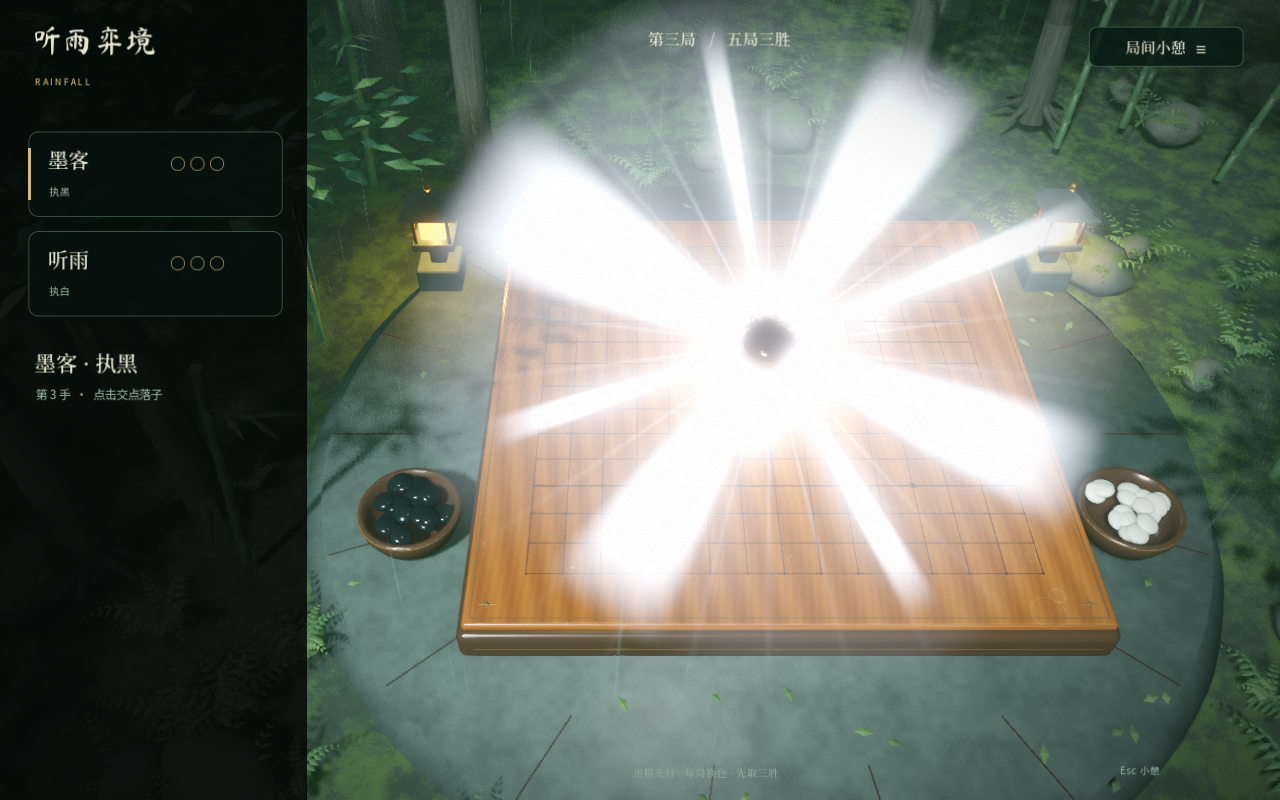
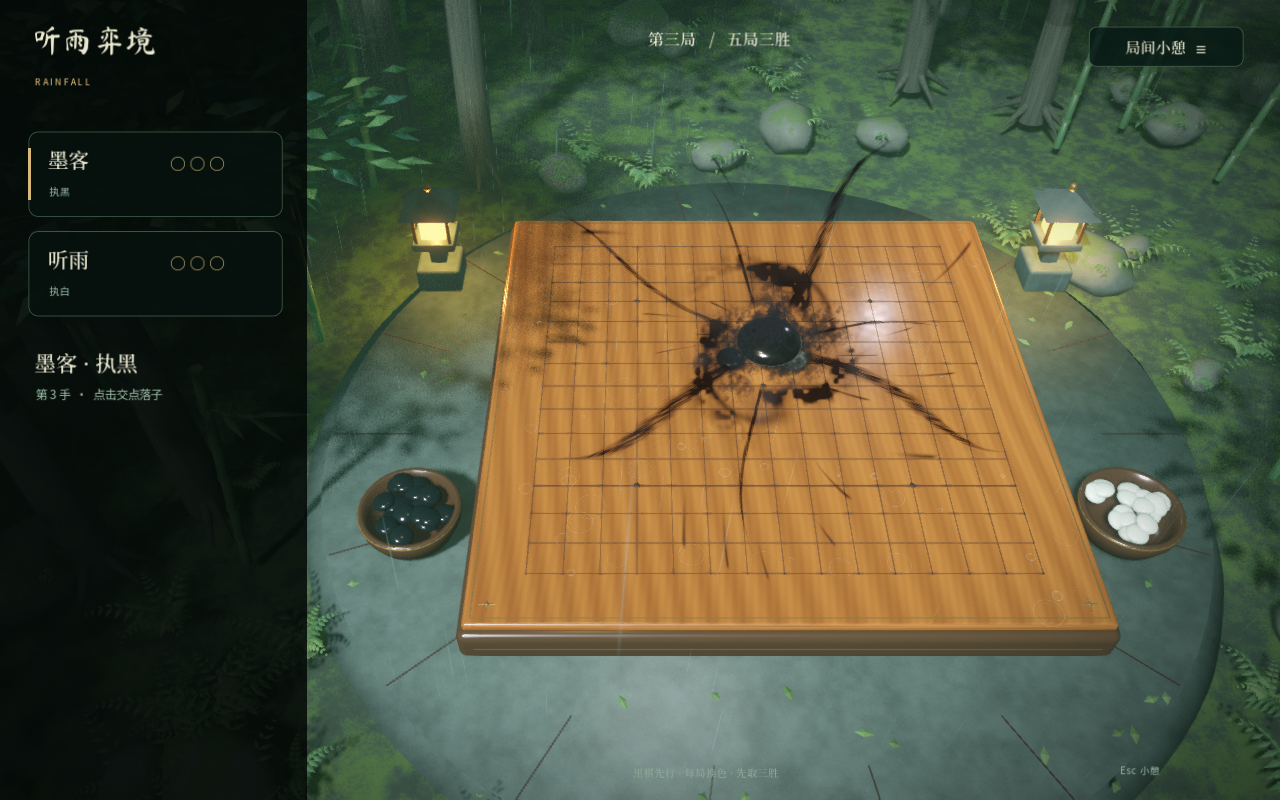
fix: match effects to stone color and rebuild ink charging

diff --git a/VERIFICATION.md b/VERIFICATION.md
@@ -1,4 +1,4 @@
-# 听雨弈境 2.4.0 验证记录
+# 听雨弈境 2.5.0 验证记录
 
 验证日期：2026-09-12。环境：macOS、Apple M1 / 16 GB、Godot 4.7.2、Forward+ / Metal。其他操作系统及显卡尚未验证。
 
@@ -8,7 +8,8 @@
 | --- | --- | --- |
 | 棋局规则 | 133 项通过，0 失败 | `tests/test_rules.gd` |
 | 设置与实际鼠标回放 | 27 项通过，0 失败 | `--verify --settings-check` |
-| 悬浮、震子与蓄力反馈 | 72 项通过，0 失败；技能重叠帧数 0 | `--verify --feedback-check` |
+| 悬浮、震子与蓄力反馈 | 75 项通过，0 失败；技能重叠帧数 0 | `--verify --feedback-check` |
+| 三种技能完整实机演出 | 36 项通过，0 失败 | `--verify` |
 | 雷电与技能互斥 | 20 项通过，0 失败；重叠帧数 0 | `--verify --effect-priority` |
 
 覆盖永久优势归属与换色、普通玩家无特效、T 形四向识别、白棋等待回合、射线包含空位、月轮完整 5×5、棋盘长按与 225 点填黑、三胜结束、存档恢复及重复结算防护。
@@ -17,13 +18,17 @@
 
 反馈回放覆盖双方悬浮棋色、空位吸附、占位和菜单隐藏、窗口离开、特效关闭后仍有落点预览；第三至第五局分别检查优势归属、对方棋子离盘、己方不动、完整恢复原位和棋局不受影响。中途关闭特效会立即恢复棋子。
 
-蓄力的早期、中段、满蓄力均有实机截图。固定画面区域的平均亮度依次为 0.558、0.695、0.936；远离棋盘反光点的高亮采样点从 0 增至 1307，确认光束本身逐渐展开。回放还检查满蓄力等待、音效结束后的长按取消、拖走、设置、失焦与正常释放。
+蓄力的早期、中段、满蓄力均有实机截图。回放对比有无墨流的同一场景，避开中央棋子，在外侧区域统计变暗的采样点：6 → 1753 → 3327；距离中心更远的墨纹采样点为 3 → 151 → 863。满蓄力时变亮的采样点只有 6，确认增强的是墨色纹理，且向外延伸；中性反光只照亮黑子附近。回放还检查满蓄力等待、音效结束后的取消、拖走、设置、失焦、重新蓄力与正常释放。
 
-雷电回放覆盖第三局普通落雷，以及蓄力、拉弓、月轮、天地大同、取消手势和换局之间的互斥。当前输出目录为 `verification/v2.4/`，包含 `feedback-result.json`、`settings-playback.json`、`effect-priority-result.json` 和实机截图。
+已逐张复查黑白落雷、震子、黑色蓄力、黑棋挽弓与天地大同、白棋月轮及书法颜色。黑棋弓迹、雷电与书法主色为墨黑；白棋月轮和书法为银白。棋形不提前显示技能提示。
+
+雷电回放覆盖第三局普通落雷，以及蓄力、拉弓、月轮、天地大同、取消手势和换局之间的互斥。当前输出目录为 `verification/v2.5/`，包含 `playback-result.json`、`feedback-result.json`、`settings-playback.json`、`effect-priority-result.json` 和实机截图。
+
+合计 291 项检查通过。图形回放使用 `--isolated-replay`：保持测试窗口可绘制，隔离桌面真实输入；脚本仍通过 `Viewport.push_input()` 测试游戏与控件。窗口退出、失焦的取消处理由脚本显式调用同一函数，避免桌面操作干扰自动回放。
 
 ## 声音测量
 
-2.4 声音专项完成 40 项回放检查，新增对方棋子震起后的整组落回声录制，音频资源和混音总线保留原有输出保护。
+最近一次声音专项在 2.4 完成 40 项回放检查，包含对方棋子震起后的整组落回声录制。2.5 修改视觉演出与回放隔离，没有改动声音资源、播放增益和混音总线；下列为 2.4 的实测数据，本次未重复录音。
 
 | 测量 | 结果 |
 | --- | --- |
@@ -40,10 +45,10 @@
 
 ## 本机应用与数据
 
-2.4.0 已完成 macOS 导出和本机临时签名校验，安装包与导出包的 PCK 内容一致。启动安装版后继续已有棋局，通过实际鼠标输入确认普通玩家的白棋悬浮预览正常显示，未替玩家落子。升级保留棋局、声音和画质偏好。
+2.5.0 已完成 macOS 导出和本机临时签名校验，安装版与导出包的 PCK 摘要相同。安装版已正常启动并恢复原存档；棋局和设置文件在升级、启动后均与更新前摘要一致。记录位于 `verification/v2.5/installation.json`，旧应用另留本地备份。
 
-所有回放使用 `--verify`，不覆盖正常玩家的棋局；设置持久化检查写入测试目录。`verification/` 中的录音、测试配置、截图和本地发布记录不提交 Git，也不进入导出应用。仓库保留可复现脚本及选取的 [悬浮棋子](docs/images/gameplay.png)、[设置](docs/images/settings.png)、[震子](docs/images/recoil.png)、[满蓄力](docs/images/charge.png) 截图。
+所有回放使用 `--verify`，不覆盖正常玩家的棋局；设置持久化检查写入测试目录。`verification/` 中的录音、测试配置、截图和本地发布记录不提交 Git，也不进入导出应用。仓库保留可复现脚本及选取的 [悬浮棋子](docs/images/gameplay.png)、[设置](docs/images/settings.png)、[震子](docs/images/recoil.png)、[满蓄力](docs/images/charge.png)、[墨黑挽弓](docs/images/bow.png)、[银白月轮](docs/images/moon.png) 截图。
 
-2.4 的导入、渲染回放和导出日志均无脚本错误或警告。测试与音频分析自动建立输出目录，无需预先复制本机测试文件。
+最终通过的规则、设置、技能、反馈与互斥回放日志均无脚本错误或警告。测试与音频分析自动建立输出目录，无需预先复制本机测试文件。
 
 启动、测试与导出命令见 [README](README.md)。

diff --git a/README.md b/README.md
@@ -2,7 +2,7 @@
 
 雨落松间，棋起万象。使用 **Godot + Blender** 制作的本地双人 3D 五子棋，包含雨林棋境、黑白棋子专属演出和三种隐藏技法。
 
-当前版本 **2.4.0**。运行与导出已在 **macOS / Apple Silicon、Godot 4.7.2、Forward+ / Metal** 上验证；其他平台尚未验证。两位玩家共用一台电脑和鼠标。
+当前版本 **2.5.0**。运行与导出已在 **macOS / Apple Silicon、Godot 4.7.2、Forward+ / Metal** 上验证；其他平台尚未验证。两位玩家共用一台电脑和鼠标。
 
 ![雨中棋盘实机画面](docs/images/gameplay.png)
 
@@ -56,6 +56,10 @@ GODOT_BIN=/Applications/Godot.app/Contents/MacOS/Godot
 
 第一局先落子的玩家永久拥有优势，后续交换黑白也不改变归属。其执黑时呈现墨色烟气，执白时呈现银白光雾；另一位玩家始终为普通落子。界面不标记可发动技能的棋子，也不提示触发方法。
 
+演出主色随当前棋色统一：黑棋使用黑色墨流、弓迹、雷电裂隙与书法；白棋使用银白月轮、闪电与书法。黑子表面仅保留少量中性反光，书法采用细描边保持可读性。
+
+实机演出：[墨黑挽弓](docs/images/bow.png) · [银白月轮](docs/images/moon.png)。
+
 第三局开始，优势方普通落子会增加对应棋色的分叉闪电和雷鸣，**对方棋子会被震起、轻微翻动，再落回原来的交点**。震动只改变演出，不改变棋色、棋位或回合。落回声按整组混音，不随棋子数量叠加音量。
 
 **雷电、震子与技能演出互斥**，大招不会再叠加普通落雷。关闭特效或开始技能时会清理残留演出，将棋子恢复原位。
@@ -73,7 +77,7 @@ T 形支持上下左右四个方向，不接受端点邻子或斜邻子。成形
 
 天地大同短按仍为普通落子，拖离原点或暂停会取消蓄力。三种技能均只属于优势方，结算只记一次分，演出期间锁住重复输入。
 
-天地大同蓄力过程中，黑子逐渐升起，周围的放射光束持续延伸、增亮；蓄满后保持待落状态，松手才发动。拖走、切换窗口或打开设置会取消手势与光束。
+天地大同蓄力过程中，黑子逐渐升起、放大，弯曲墨束和细碎拖尾向中心汇聚，周围墨流的范围与浓度持续增强。蓄满后保持待落状态，松手才发动；拖走、切换窗口或打开设置会取消整个手势。
 
 ![天地大同满蓄力实机画面](docs/images/charge.png)
 
@@ -115,7 +119,9 @@ mkdir -p builds
 
 `--verify` 使用独立内存棋局，不覆盖玩家存档或声音设置；测试目录自动建立。结果、截图和录音写入 `verification/`，不会提交到 Git 或打包进游戏。
 
-规则、设置、悬浮与震子反馈、技能互斥均有可复现检查。反馈回放还采样实际画面，确认蓄力光束逐级变亮，并覆盖长按超过音效时长后的取消与释放。当前检查数量、结果和声音测量范围见 [验证记录](VERIFICATION.md)；混音设计见 [AUDIO.md](AUDIO.md)。
+macOS 后台自动回放可追加 `--isolated-replay`：固定大小的测试窗口保持绘制，忽略桌面真实鼠标与焦点变化，测试脚本仍走游戏输入与控件处理。失焦取消由回放显式触发同一处理函数。普通游戏不受该测试选项影响。
+
+规则、设置、悬浮与震子反馈、技能互斥均有可复现检查。反馈回放对比有无墨流的实际画面，确认蓄力黑色纹理逐级扩展，并覆盖长按超过音效时长后的取消与释放。当前检查数量、结果和声音测量范围见 [验证记录](VERIFICATION.md)；混音设计见 [AUDIO.md](AUDIO.md)。
 
 ## 目录
 

diff --git a/DESIGN.md b/DESIGN.md
@@ -1,4 +1,4 @@
-# 听雨弈境 · 2.4 设计约定
+# 听雨弈境 · 2.5 设计约定
 
 同一台电脑上的双人 3D 五子棋。雨中松林、薄雾、湿润木棋盘与暖灯构成日常棋境；技能发动时，通过棋子近景、墨烟、银白月轮、冲击波与书法演出表现力量。Blender 源模型与 Godot 工程均随仓库提供。
 
@@ -20,7 +20,9 @@
 
 T 形支持四个正交方向，不接受三连端点邻子或斜邻子。白棋在等待回合可以先以五连获胜；黑棋也可放弃拉弓、正常落子。天地大同短按为普通落子，拖离原点或暂停取消蓄力，不使用棋盘外的蓄力区域。
 
-天地大同蓄力时，黑子升起，宽窄交错的光束从中心向外展开；光束长度与亮度、周围照明随蓄力增加。满蓄力保留中央黑子轮廓，不自动落子。取消手势、失去窗口焦点或关闭特效会同时移除棋子、光束和照明；蓄力音播放结束后仍可安全松手或取消。
+天地大同蓄力时，黑子升起、放大，墨束延伸，细碎墨丝向中心收拢，近处形成流动的墨涡。蓄力强度由墨色密度、范围、运动层次表现，黑棋采用透明混合的墨色材质；只用小范围中性反光描述黑子表面，不产生白色泛光或彩虹边缘。满蓄力保留中央棋子轮廓，不自动落子。取消手势、失去窗口焦点或关闭特效会同时移除棋子、墨束和照明；蓄力音播放结束后仍可安全松手或取消。
+
+普通落雷、弓迹、镜头冲击与特技书法均跟随棋色：黑棋为墨黑，白棋为银白。黑色雷电以较宽的暗色裂隙与细灰边显形；黑棋冲击压暗局部画面。书法主体同色，仅以细窄反差描边保证森林背景上的可读性。
 
 棋子转换与判胜由规则层负责，演出层呈现变化。技能无需额外满足五连条件，结算只记一次比分。非法落子、越界、重复输入与结束后落子均受到规则限制。
 

diff --git a/docs/ASSET_BUILD.md b/docs/ASSET_BUILD.md
@@ -53,6 +53,6 @@ python tools/verify_audio.py
 
 声音脚本生成短音效和雨声循环，维持未压缩 PCM 导入配置并记录峰值；验证脚本分析素材以及实际 Master 混音。仅分析现有素材时，可直接运行 `python tools/verify_audio.py`，无需重新下载录音；实际录音缺失时报告会注明待录制。
 
-设置、声音和互斥回放默认写入当前版本的测试目录，例如 2.4 对应 `verification/v2.4/`；音频分析器也默认读取该目录。分析旧版录音可显式传入 `python tools/verify_audio.py --output-dir verification/v2.2`。
+设置、声音和互斥回放默认写入当前版本的测试目录，例如 2.5 对应 `verification/v2.5/`；音频分析器也默认读取该目录。分析旧版录音可显式传入 `python tools/verify_audio.py --output-dir verification/v2.4`。
 
-旧版 `tools/build_audio.py` 和 `tests/playback.gd` 保留作早期版本参考，不属于 2.4 的默认构建与验证流程。当前回放入口是 `tests/playback_v2.gd` 及其派生脚本。悬浮、震子和蓄力光束通过 `--verify --feedback-check` 验证。
+旧版 `tools/build_audio.py` 和 `tests/playback.gd` 保留作早期版本参考，不属于当前默认构建与验证流程。当前回放入口是 `tests/playback_v2.gd` 及其派生脚本。悬浮、震子和墨色蓄力通过 `--verify --feedback-check` 验证。
